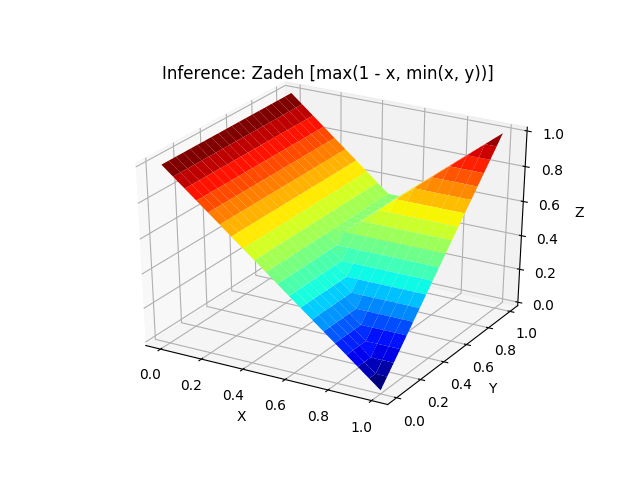
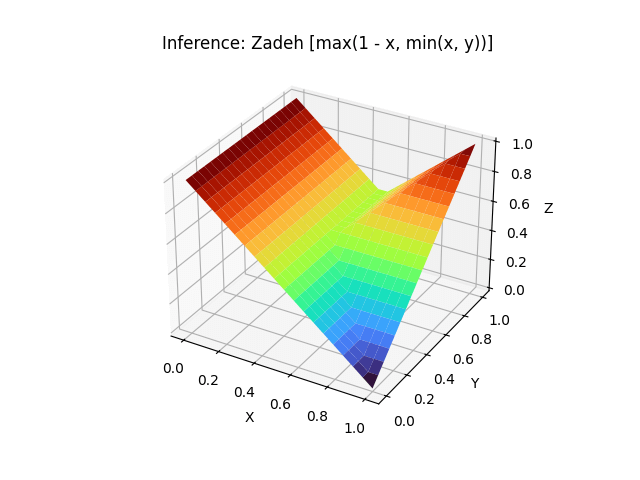
Improve code and documentation

diff --git a/fuzzy-operators-visualization.py b/fuzzy-operators-visualization.py
@@ -1,12 +1,12 @@
-from mpl_toolkits.mplot3d import Axes3D
+import matplotlib
 import matplotlib.pyplot as plt
 import numpy as np
 
-# Number of tiles per axis
 TILES = 20
-# Colormap reference at https://matplotlib.org/users/colormaps.html#grayscale-conversion
-COLOR_MAP = 'jet'
-
+# Colormap reference at https://matplotlib.org/stable/users/explain/colors/colormaps.html
+COLOR_MAP = 'turbo'
+SAVE_IMAGES = False
+SHOW_IMAGES = True
 
 modes = (
     ('Intersection', (
@@ -40,8 +40,8 @@ for mode in modes:
 
     for fun in functions:
         fig = plt.figure()
-        ax = fig.gca(projection='3d')
-        fig.canvas.set_window_title('{}: {}'.format(mode[0], fun[0]))
+        ax = fig.add_subplot(projection='3d')
+        fig.canvas.manager.set_window_title('{}: {}'.format(mode[0], fun[0]))
         ax.set_title('{}: {} [{}]'.format(mode[0], fun[0], fun[1]))
 
         if mode[0] != 'Inference':
@@ -62,6 +62,10 @@ for mode in modes:
         ax.set_zlabel('Z')
 
         # To generate the images
-        # fig.savefig('images/{}_{}.png'.format(mode[0].lower(), fun[0].lower().replace(' ', '_')))
+        if SAVE_IMAGES:
+            fig.savefig('images/{}_{}.png'.format(mode[0].lower(), fun[0].lower().replace(' ', '_')))
+            if not SHOW_IMAGES:
+                matplotlib.pyplot.close()
 
-plt.show()
+if SHOW_IMAGES:
+    plt.show()

diff --git a/README.md b/README.md
@@ -1,43 +1,43 @@
-# Visual representation of some operators of fuzzy logic
+# Visual Representation of Some Fuzzy Logic Operators
 
-To run it you'll need matplotlib.
-You can setup a virtual environment inside the project folder with
+When working with boolean algebra, the values of the variables can only be `true` or `false` (`1` or `0` when represented as numbers). Fuzzy logic is the term used when the values can be any real number between `0` and `1`.
 
-    virtualenv -p python3 venv
-    source venv/bin/activate
-    pip install -r requirements.txt
+The following section shows the boolean algebra truth table.
 
-The two values that can be easily adjusted in the code are `TILES` and `COLOR_MAP`.
-- Increasing or decreasing the value of `TILES` makes the figure more or less fine-grained.
-- Possible values to assign to `COLOR_MAP` can be found in this 
-[colormap reference](https://matplotlib.org/users/colormaps.html#grayscale-conversion).
+The section after it shows the result of applying the fuzzy logic operators to the continuous `x` and `y` values and plotting the result on the `z` axis.
 
-#### Truth table
+## Boolean Algebra
 
-x | y | x AND y | x OR y | IF x THEN y
+`x` | `y` | `x AND y` | `x OR y` | `IF x THEN y` (`NOT x OR y`)
 :---: | :---: | :---: | :---: | :---:
 0 | 0 | 0 | 0 | 1
 0 | 1 | 0 | 1 | 1
 1 | 0 | 0 | 1 | 0 
 1 | 1 | 1 | 1 | 1
 
-## Intersection (x AND y)
+## Fuzzy Logic Operators
+
+### Intersection (`x AND y`)
+
 ![Minimum](images/intersection_minimum.png)
 ![Average](images/intersection_average.png)
 ![Product](images/intersection_product.png)
 ![Limited difference](images/intersection_limited_difference.png)
 ![Drastic intersection](images/intersection_drastic_intersection.png)
 
-## Union (x OR y)
+### Union (`x OR y`)
+
 ![Maximum](images/union_maximum.png)
 ![Average](images/union_average.png)
 ![Algebraic sum](images/union_algebraic_sum.png)
 ![Boundary sum](images/union_boundary_sum.png)
 ![Drastic union](images/union_drastic_union.png)
 
-## Inference (IF x THEN y)
+### Inference (`IF x THEN y`)
+
 Note that the range values for `x` are inverted compared to Intersection and Union 
 to make it easier to see the surface.
+
 ![Gaines](images/inference_gaines.png)
 ![Godel](images/inference_godel.png)
 ![Goguen](images/inference_goguen.png)
@@ -46,3 +46,35 @@ to make it easier to see the surface.
 ![Klir-Yuan](images/inference_klir-yuan.png)
 ![Zadeh](images/inference_zadeh.png)
 ![Lukasiewicz](images/inference_lukasiewicz.png)
+
+
+## How to run the code
+
+To run the code in `fuzzy-operators-visualization.py` you'll need `Python 3` and the `matplotlib` library.
+You can set up a virtual environment inside the project folder and install `matplotlib` with the following commands.
+
+```bash
+python3 -m venv venv
+source venv/bin/activate
+pip install -r requirements.txt
+```
+
+There are several variables at the beginning of `fuzzy-operators-visualization.py` that can be changed to generate different results:
+- `TILES`: Controls how fine-grained the surface will be. A higher number results in a smoother/less blocky surface. The default is `20`.
+- `COLOR_MAP`: Defines the color palette to be used. Possible values to use to can be found in this 
+[colormap reference](https://matplotlib.org/stable/users/explain/colors/colormaps.html). The default is `turbo`.
+- `SAVE_IMAGES`: If set to `True`, generates png files for each representation and stores it in the `images` folder. The default is `False`.
+- `SHOW_IMAGES`: If set to `True`, show each representation in a window. The default is `True`.
+
+To see all available color maps, run the following code in a Python session.
+
+```python
+from matplotlib import colormaps
+print(colormaps)
+```
+
+Once everything is set up, run the script with the following command.
+
+```bash
+python3 fuzzy-operators-visualization.py
+```
